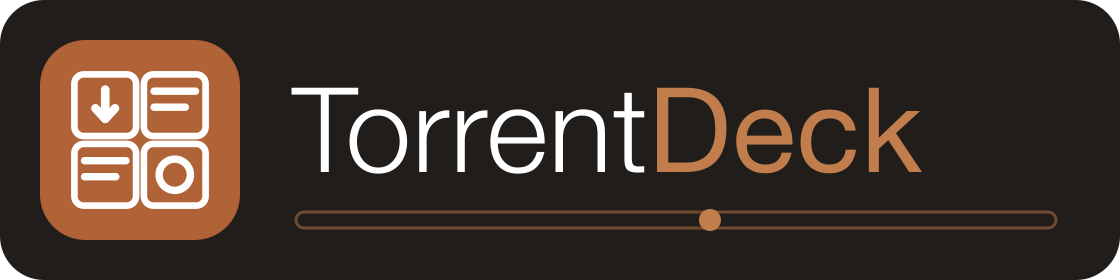
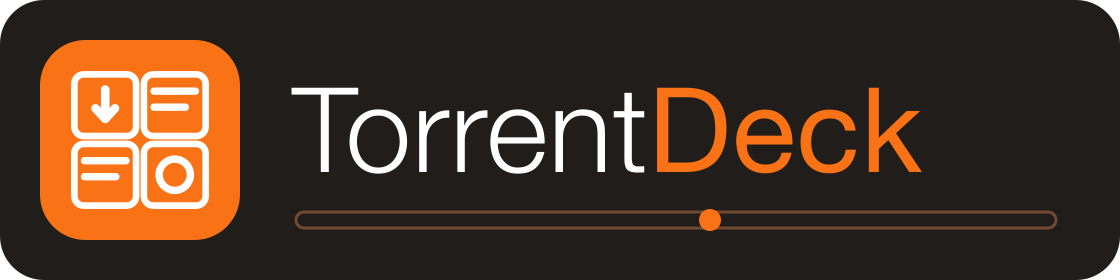
theme: muted electric-blue accent + fixed orange brand (two-color identity)
- accent palette → a muted electric blue tuned for both light and dark
  (main.css); this is the UI accent (buttons, links, progress, selection)
- introduce --color-brand-* (vivid orange #f97316) for the logo/wordmark,
  independent of the accent; Logo + WelcomeScreen "Deck" now use text-brand-*
- icon/wordmark/social recolored to the vivid orange brand (was muted terracotta)

Orange + blue is complementary; the logo stays orange, the app goes blue.

Changed region(s): [[0.0312, 0.1429, 0.2188, 0.8571], [0.5625, 0.3143, 0.8438, 0.6286], [0.625, 0.7429, 0.6562, 0.8286]]

diff --git a/src/renderer/src/assets/main.css b/src/renderer/src/assets/main.css
@@ -5,22 +5,29 @@
 /*
  * Semantic color system. All component classes use these tokens (accent,
  * success, danger, warning, surface) — never raw Tailwind hues — so the whole
- * app's character is tuned here. The palette is deliberately soft: warm
- * orange accent, sage success, dusty rose danger, warm gray surfaces, and a
- * charcoal (not black) dark mode.
+ * app's character is tuned here. The palette is deliberately soft: a muted
+ * electric-blue accent (the orange logo stays a fixed brand mark — see
+ * --color-brand-*), sage success, dusty rose danger, warm gray surfaces, and a
+ * charcoal (not black) dark mode. The blue is tuned to read on both the light
+ * and dark surfaces (600 for links on light, 400 on dark).
  */
 @theme {
-  --color-accent-50: #f9f2ed;
-  --color-accent-100: #f1e2d6;
-  --color-accent-200: #e3c4ae;
-  --color-accent-300: #d09f7e;
-  --color-accent-400: #bd7d54;
-  --color-accent-500: #a96437;
-  --color-accent-600: #92522c;
-  --color-accent-700: #774227;
-  --color-accent-800: #613626;
-  --color-accent-900: #522f23;
-  --color-accent-950: #2c1811;
+  --color-accent-50: #eef2fb;
+  --color-accent-100: #dbe4f5;
+  --color-accent-200: #bccdea;
+  --color-accent-300: #93aedb;
+  --color-accent-400: #6a8dca;
+  --color-accent-500: #4a70b8;
+  --color-accent-600: #3c5c9c;
+  --color-accent-700: #344e82;
+  --color-accent-800: #2f436a;
+  --color-accent-900: #2b3b58;
+  --color-accent-950: #1b2740;
+
+  /* Fixed orange brand mark (logo + wordmark "Deck"), independent of the accent. */
+  --color-brand-400: #fb923c;
+  --color-brand-500: #f97316;
+  --color-brand-600: #ea6a0e;
 
   --color-success-50: #edf7f1;
   --color-success-100: #d8efe2;

diff --git a/src/renderer/src/components/Logo.tsx b/src/renderer/src/components/Logo.tsx
@@ -19,7 +19,7 @@ export function Logo({
   return (
     <span className={cn('inline-flex items-center gap-2', className)}>
       <svg width={size} height={size} viewBox="0 0 1024 1024" role="img" aria-label="TorrentDeck" className="shrink-0">
-        <rect x="0" y="0" width="1024" height="1024" rx="232" fill="#b06336" />
+        <rect x="0" y="0" width="1024" height="1024" rx="232" fill="#f97316" />
         <g fill="none" stroke="#ffffff" strokeLinecap="round" strokeLinejoin="round">
           <rect x="176" y="176" width="316" height="316" rx="48" strokeWidth="40" />
           <rect x="532" y="176" width="316" height="316" rx="48" strokeWidth="40" />
@@ -36,7 +36,7 @@ export function Logo({
       </svg>
       {withWordmark && (
         <span className="text-sm font-light tracking-wide text-surface-900 dark:text-white">
-          Torrent<span className="font-normal text-accent-500 dark:text-accent-400">Deck</span>
+          Torrent<span className="font-normal text-brand-500 dark:text-brand-400">Deck</span>
         </span>
       )}
     </span>

diff --git a/src/renderer/src/components/WelcomeScreen.tsx b/src/renderer/src/components/WelcomeScreen.tsx
@@ -13,7 +13,7 @@ export function WelcomeScreen(): React.JSX.Element {
       <Logo size={72} className="drop-shadow-sm" />
       <div className="text-center">
         <h1 className="text-2xl font-light tracking-wide text-surface-900 dark:text-white">
-          Torrent<span className="font-normal text-accent-500 dark:text-accent-400">Deck</span>
+          Torrent<span className="font-normal text-brand-500 dark:text-brand-400">Deck</span>
         </h1>
         <p className="mt-1 text-sm text-surface-500">
           Add a Transmission, Deluge, or qBittorrent server to get started.